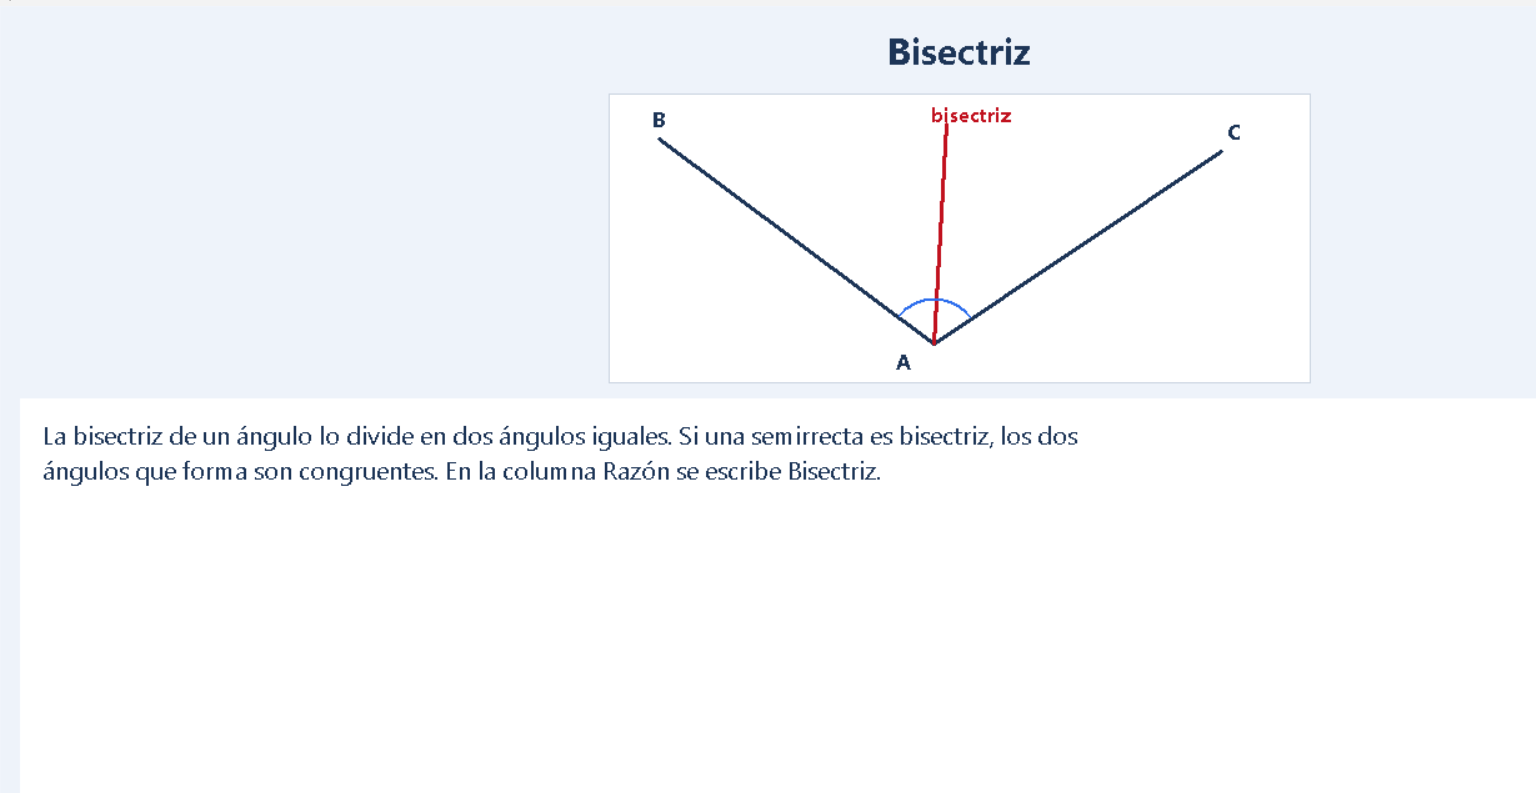
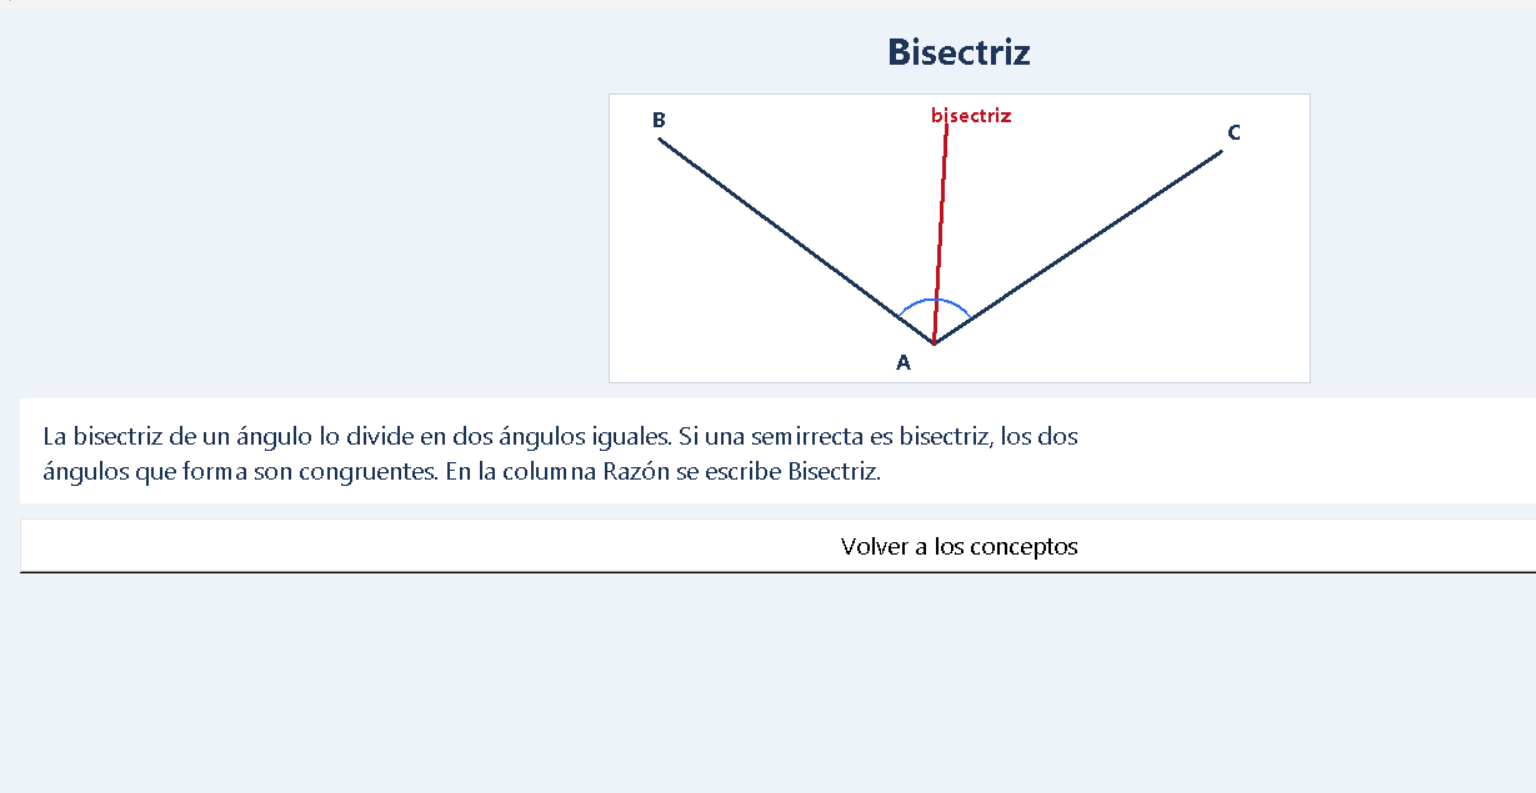
Actualiza la pantalla de geometria y las capturas para que GitHub tenga el proyecto completo.

Changed region(s): [[0.0312, 0.6658, 1.0, 0.7264]]

diff --git a/geometria/pantalla.py b/geometria/pantalla.py
@@ -511,7 +511,7 @@ def crear_boton_de_razon(marco, mensaje, fila, columna):
         font=("Segoe UI", 12),
         bg="#ffffff",
         activebackground="#d9e6fb",
-        wraplength=220,
+        wraplength=180,
         justify="center",
     )
     boton.grid(row=fila, column=columna, padx=4, pady=4, sticky="nsew")
@@ -523,18 +523,22 @@ def armar_razones(marco):
     # Pone un botón por cada razón que se usa en la tabla.
     # No devuelve nada.
     razones=[
-        ["Dado", "Bisectriz", "Punto medio", "Lado común"],
-        ["Propiedad reflexiva", "Perpendicular", "Ángulos opuestos por el vértice"],
+        ["Dado", "Bisectriz"],
+        ["Punto medio", "Lado común"],
+        ["Propiedad reflexiva", "Perpendicular"],
+        ["Ángulos opuestos por el vértice"],
     ]
     fila=0
     for grupo in razones:
         columna=0
         for razon in grupo:
-            crear_boton_de_razon(marco, razon, fila, columna)
+            boton=crear_boton_de_razon(marco, razon, fila, columna)
+            if len(grupo)==1:
+                boton.grid(columnspan=2)
             columna=columna+1
         fila=fila+1
     columna=0
-    while columna<4:
+    while columna<2:
         marco.grid_columnconfigure(columna, weight=1)
         columna=columna+1
 

diff --git a/geometria/dibujos.py b/geometria/dibujos.py
@@ -186,7 +186,7 @@ def dibujar_triangulo_con_letras(lienzo, puntos, color_relleno):
 
 def dibujar_dos_triangulos(lienzo, ancho, alto):
     # Recibe el lienzo y su tamaño.
-    # Dibuja △ABC a la izquierda y △DEF a la derecha, con la misma forma.
+    # Dibuja el triángulo ABC a la izquierda y el DEF a la derecha, con la misma forma.
     # No devuelve nada.
     dibujar_triangulo_con_letras(lienzo, vertices_abc(ancho, alto), color_abc)
     dibujar_triangulo_con_letras(lienzo, vertices_def(ancho, alto), color_def)

diff --git a/capturar_congruencia.py b/capturar_congruencia.py
@@ -52,6 +52,10 @@ pantalla.confirmar_razon("Punto medio")
 ventana.lift()
 ventana.attributes("-topmost", True)
 ventana.update()
+fondo=ventana.winfo_rooty()+ventana.winfo_height()
+print("resultado", pantalla.etiqueta_resultado.winfo_rooty(), pantalla.etiqueta_resultado.cget("text")[:40])
+print("tabla abajo", pantalla.marco_filas.winfo_rooty()+pantalla.marco_filas.winfo_height())
+print("fondo ventana", fondo)
 
 ruta=r"c:\Users\juanp\OneDrive\Documentos\Nuevo proyecto\captura_comparar.png"
 x=ventana.winfo_rootx()
